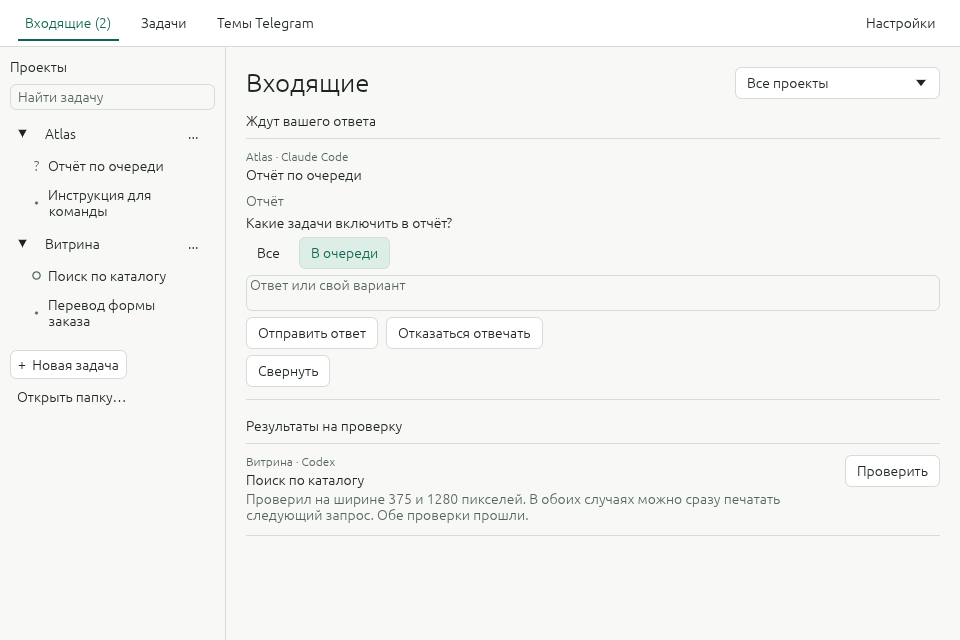
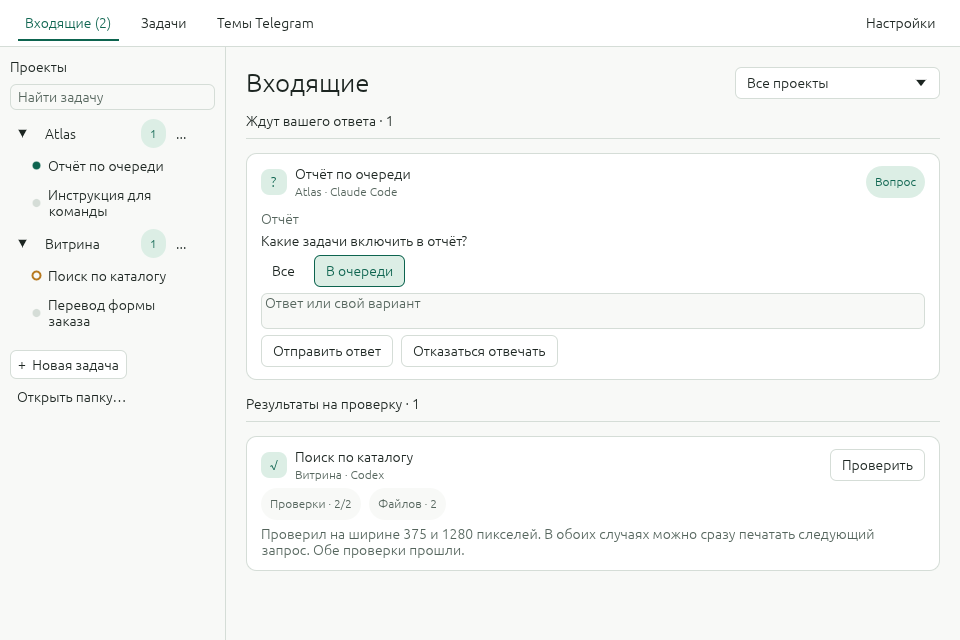
release: подготовить Agent Hub v1.1.1
Обновлённый интерфейс (чат пузырями, входящие карточками, действия
в шапке, сайдбар со статусами, результат вкладками, темы и новая
задача), тихое удаление и синхронизация тем. Версия workspace 1.1.1,
текст релиза с предупреждением об откате, новые скриншоты README/сайта.

diff --git a/site/index.html b/site/index.html
@@ -358,7 +358,7 @@
   <header class="wrap masthead">
     <div class="identity">
       <a class="brand" href="#main"><span class="brand-mark" aria-hidden="true"></span>agent-hub</a>
-      <span class="version">v1.1.0</span>
+      <span class="version">v1.1.1</span>
     </div>
     <nav aria-label="Основная навигация">
       <ul>

diff --git a/docs/releases/v1.1.1.md b/docs/releases/v1.1.1.md
@@ -1,0 +1,60 @@
+# v1.1.1 — обновлённый интерфейс и синхронизация тем
+
+Патч-выпуск делает десктопный хаб удобнее в ежедневной работе: переписка задачи читается как чат, действия доступны без лишних раскрытий, состояния задач видны с первого взгляда. Разделы «Темы Telegram» и «Новая задача» обновлены в том же стиле. Логика задач, правила, проверки и Telegram-мост не изменились.
+
+![Входящие карточками: вопрос агента с вариантами ответа и результат другой задачи на проверку.](https://raw.githubusercontent.com/aprazdnikov/agent-hub-rs/v1.1.1/site/screenshots/inbox.png)
+
+## Что изменилось в интерфейсе
+
+- **Чат задачи.** Сообщения оформлены пузырями: ваши справа, агента слева, с именем исполнителя, статусом запуска и временем. Длинные ответы сворачиваются с кнопкой «Развернуть»; файлы и проверки показаны чипами. Поле сообщения растёт по мере набора (до 8 строк), отправка — Ctrl+Enter.
+- **Входящие.** Вопросы и запросы разрешений оформлены карточками: варианты ответа и кнопки «Разрешить»/«Отклонить» доступны сразу, без раскрытия. Результаты на проверку — с чипами файлов и проверок.
+- **Действия задачи.** Главное действие по состоянию — кнопкой в шапке чата («Остановить», «Открыть результат», «Снять с очереди», «Разобрать запуск»); редкие действия — в меню «…». Страница «Параметры» осталась для настроек.
+- **Сайдбар.** Состояния задач отмечены цветными точками (выполняется, на проверке, ждёт ответа, ошибка), у проекта — счётчик требующих внимания.
+- **Экран результата.** Вместо вложенных раскрытий — вкладки «Сводка», «Изменения», «Проверки», «Файлы», «История»; замечания к строкам diff сохраняются.
+- **Темы Telegram.** Карточки с чипом состояния и этапа, меню «…» (память, параметры, папка, ссылка, session_id, сброс и удаление с подтверждением). Кнопка **«Синхронизировать»** убирает из списка темы, которых уже нет в Telegram.
+- **Новая задача.** Компактная строка выбора проекта, режима и агента; растущее поле поручения; название — видимое опциональное поле.
+
+![Чат задачи пузырями: ответы агента со статусом и временем, поле сообщения внизу.](https://raw.githubusercontent.com/aprazdnikov/agent-hub-rs/v1.1.1/site/screenshots/task-chat.png)
+
+## Удаление и синхронизация тем
+
+- Удаление темы, которой уже нет в Telegram, больше не показывает ошибку API: тема просто убирается из списка.
+- **«Синхронизировать»** последовательно проверяет темы и убирает устаревшие. Живые темы не затрагиваются; при неопределённом ответе API тема остаётся в списке. Если Telegram просит подождать, синхронизация останавливается и сообщает об этом. Ошибки сохранения на диске показываются явно — повторите синхронизацию.
+
+## Обновление с v1.1.0
+
+Завершите работу агентов и закройте хаб через меню трея. **Перед обновлением сделайте копию файла задач `topics.tasks.json` вместе с каталогом `task-files/`** (пути зависят от системы; см. таблицу ниже).
+
+v1.1.1 добавляет в историю запусков время начала и завершения. Файл задач читается со строгой схемой, поэтому **файл, записанный v1.1.1, прежние версии прочитать не смогут: возврат на версию до v1.1.1 не поддерживается**. Для возврата восстановите копию, сделанную до обновления, при закрытом приложении.
+
+| Система | Настройки | Данные |
+|---|---|---|
+| Windows | `%APPDATA%\agent-hub\config` | `%APPDATA%\agent-hub\data` |
+| macOS | `~/Library/Application Support/agent-hub/` | тот же каталог |
+| Linux | `~/.config/agent-hub/` | `~/.local/share/agent-hub/` |
+
+На Linux при заданных `XDG_CONFIG_HOME` и `XDG_DATA_HOME` используйте каталог `agent-hub/` внутри соответствующего пути. [Настройки, пути и обновление](https://github.com/aprazdnikov/agent-hub-rs/blob/v1.1.1/docs/guide/settings.md)
+
+## Скачать и проверить
+
+Скачайте файл для своей системы и его контрольную сумму в один каталог.
+
+| Система | Файл | SHA-256 |
+|---|---|---|
+| Windows x64 | [Установщик .exe](https://github.com/aprazdnikov/agent-hub-rs/releases/download/v1.1.1/agent-hub-x86_64-pc-windows-msvc-setup.exe) · [переносимый .zip](https://github.com/aprazdnikov/agent-hub-rs/releases/download/v1.1.1/agent-hub-x86_64-pc-windows-msvc.zip) | [Установщик](https://github.com/aprazdnikov/agent-hub-rs/releases/download/v1.1.1/agent-hub-x86_64-pc-windows-msvc-setup.exe.sha256) · [архив](https://github.com/aprazdnikov/agent-hub-rs/releases/download/v1.1.1/agent-hub-x86_64-pc-windows-msvc.zip.sha256) |
+| macOS, Apple Silicon | [Приложение .app.zip](https://github.com/aprazdnikov/agent-hub-rs/releases/download/v1.1.1/agent-hub-aarch64-apple-darwin.app.zip) | [Сумма](https://github.com/aprazdnikov/agent-hub-rs/releases/download/v1.1.1/agent-hub-aarch64-apple-darwin.app.zip.sha256) |
+| macOS, Intel | [Приложение .app.zip](https://github.com/aprazdnikov/agent-hub-rs/releases/download/v1.1.1/agent-hub-x86_64-apple-darwin.app.zip) | [Сумма](https://github.com/aprazdnikov/agent-hub-rs/releases/download/v1.1.1/agent-hub-x86_64-apple-darwin.app.zip.sha256) |
+| Debian / Ubuntu x64 | [Пакет .deb](https://github.com/aprazdnikov/agent-hub-rs/releases/download/v1.1.1/agent-hub-x86_64-unknown-linux-gnu.deb) | [Сумма](https://github.com/aprazdnikov/agent-hub-rs/releases/download/v1.1.1/agent-hub-x86_64-unknown-linux-gnu.deb.sha256) |
+| Linux x64 с glibc 2.35+ | [Архив .tar.gz](https://github.com/aprazdnikov/agent-hub-rs/releases/download/v1.1.1/agent-hub-x86_64-unknown-linux-gnu.tar.gz) | [Сумма](https://github.com/aprazdnikov/agent-hub-rs/releases/download/v1.1.1/agent-hub-x86_64-unknown-linux-gnu.tar.gz.sha256) |
+
+В каталоге загрузки проверьте сумму перед установкой. Подставьте имя выбранного файла.
+
+- **Linux** — `sha256sum -c agent-hub-x86_64-unknown-linux-gnu.deb.sha256`. Ожидаемый результат — `OK`.
+- **macOS** — `shasum -a 256 -c agent-hub-aarch64-apple-darwin.app.zip.sha256`. После `OK` распакуйте архив и замените весь `agent-hub.app`.
+- **Windows PowerShell** — следующие команды вернут `True` при совпадении.
+
+  ```powershell
+  $file = 'agent-hub-x86_64-pc-windows-msvc-setup.exe'
+  $expected = ((Get-Content -Raw -LiteralPath "$file.sha256") -split '\s+')[0]
+  (Get-FileHash -Algorithm SHA256 -LiteralPath $file).Hash -eq $expected
+  ```

diff --git a/README.md b/README.md
@@ -2,30 +2,30 @@
 
 Agent Hub запускает Claude Code, Codex, Qwen Code, Hermes и OpenCode в ваших проектах. У каждой задачи свой чат. Вопросы, запросы разрешений и готовые результаты из разных проектов попадают в одни «Входящие». Начать можно на компьютере, а продолжить — с телефона в Telegram.
 
-**[Скачать для Windows, macOS и Linux](https://github.com/aprazdnikov/agent-hub-rs/releases/latest)** · [Что нового в 1.1.0](https://github.com/aprazdnikov/agent-hub-rs/releases/tag/v1.1.0) · [Полное руководство](https://github.com/aprazdnikov/agent-hub-rs/blob/v1.1.0/docs/README.md) · [Сайт](https://aprazdnikov.github.io/agent-hub-rs/)
+**[Скачать для Windows, macOS и Linux](https://github.com/aprazdnikov/agent-hub-rs/releases/latest)** · [Что нового в 1.1.1](https://github.com/aprazdnikov/agent-hub-rs/releases/tag/v1.1.1) · [Полное руководство](https://github.com/aprazdnikov/agent-hub-rs/blob/v1.1.1/docs/README.md) · [Сайт](https://aprazdnikov.github.io/agent-hub-rs/)
 
-![Во входящих агент задаёт вопрос по одному проекту, а результат другого проекта уже можно проверить](https://raw.githubusercontent.com/aprazdnikov/agent-hub-rs/v1.1.0/site/screenshots/inbox.png)
+![Во входящих агент задаёт вопрос по одному проекту, а результат другого проекта уже можно проверить](https://raw.githubusercontent.com/aprazdnikov/agent-hub-rs/v1.1.1/site/screenshots/inbox.png)
 
 ## Первая задача на компьютере
 
-1. Установите приложение и войдите в CLI хотя бы одного агента. Подойдут Windows x64, macOS на Apple Silicon или Intel и Linux x64. [Инструкция по установке и требования](https://github.com/aprazdnikov/agent-hub-rs/blob/v1.1.0/docs/guide/getting-started.md)
+1. Установите приложение и войдите в CLI хотя бы одного агента. Подойдут Windows x64, macOS на Apple Silicon или Intel и Linux x64. [Инструкция по установке и требования](https://github.com/aprazdnikov/agent-hub-rs/blob/v1.1.1/docs/guide/getting-started.md)
 2. В хабе нажмите «Открыть папку…», выберите проект и нажмите «Новая задача». Выберите «Локально» и агента. Для первого запуска подойдёт поручение «Прочитай README и объясни, как запустить проект». Нажмите «Начать задачу».
-3. Ответьте агенту во «Входящих». Когда появится результат, нажмите «Проверить», посмотрите ответ, файлы и изменения. Дальше можно принять результат или отправить замечание в чат. [Подробнее о задачах](https://github.com/aprazdnikov/agent-hub-rs/blob/v1.1.0/docs/guide/tasks.md)
+3. Ответьте агенту во «Входящих». Когда появится результат, нажмите «Проверить», посмотрите ответ, файлы и изменения. Дальше можно принять результат или отправить замечание в чат. [Подробнее о задачах](https://github.com/aprazdnikov/agent-hub-rs/blob/v1.1.1/docs/guide/tasks.md)
 
-Telegram подключается по желанию. Создайте бота, добавьте его в группу с темами и укажите разрешённых пользователей в «Настройки → Telegram и доступ». Чтобы получать вопросы и результаты уже начатой задачи, отправьте `/task follow ID` в теме того же проекта. [Настройка Telegram](https://github.com/aprazdnikov/agent-hub-rs/blob/v1.1.0/docs/guide/getting-started.md#telegram)
+Telegram подключается по желанию. Создайте бота, добавьте его в группу с темами и укажите разрешённых пользователей в «Настройки → Telegram и доступ». Чтобы получать вопросы и результаты уже начатой задачи, отправьте `/task follow ID` в теме того же проекта. [Настройка Telegram](https://github.com/aprazdnikov/agent-hub-rs/blob/v1.1.1/docs/guide/getting-started.md#telegram)
 
 ## Что ещё умеет хаб
 
 | Что вы хотите сделать | Где посмотреть |
 |---|---|
-| После изменений запустить тесты и передать результат агенту-ревьюеру | [Правила проекта и автоматические проверки](https://github.com/aprazdnikov/agent-hub-rs/blob/v1.1.0/docs/guide/tasks.md#automation) |
-| Поставить задачи в очередь или параллельно работать в отдельных Git worktree | [Очередь и рабочие копии](https://github.com/aprazdnikov/agent-hub-rs/blob/v1.1.0/docs/guide/tasks.md#queue) |
-| Передать решения и контекст между агентами, включить память для задачи или темы | [Память проекта](https://github.com/aprazdnikov/agent-hub-rs/blob/v1.1.0/docs/guide/memory.md) |
-| Отправлять файлы и голосовые, восстановить сессию или посмотреть журнал | [Каталог руководств](https://github.com/aprazdnikov/agent-hub-rs/blob/v1.1.0/docs/README.md) |
+| После изменений запустить тесты и передать результат агенту-ревьюеру | [Правила проекта и автоматические проверки](https://github.com/aprazdnikov/agent-hub-rs/blob/v1.1.1/docs/guide/tasks.md#automation) |
+| Поставить задачи в очередь или параллельно работать в отдельных Git worktree | [Очередь и рабочие копии](https://github.com/aprazdnikov/agent-hub-rs/blob/v1.1.1/docs/guide/tasks.md#queue) |
+| Передать решения и контекст между агентами, включить память для задачи или темы | [Память проекта](https://github.com/aprazdnikov/agent-hub-rs/blob/v1.1.1/docs/guide/memory.md) |
+| Отправлять файлы и голосовые, восстановить сессию или посмотреть журнал | [Каталог руководств](https://github.com/aprazdnikov/agent-hub-rs/blob/v1.1.1/docs/README.md) |
 
-Агенты работают с правами вашей учётной записи. Доступные файлы и действия зависят от настроек CLI и проекта. [Права доступа и хранение данных](https://github.com/aprazdnikov/agent-hub-rs/blob/v1.1.0/docs/guide/security.md)
+Агенты работают с правами вашей учётной записи. Доступные файлы и действия зависят от настроек CLI и проекта. [Права доступа и хранение данных](https://github.com/aprazdnikov/agent-hub-rs/blob/v1.1.1/docs/guide/security.md)
 
-[Сборка из исходников и разработка](https://github.com/aprazdnikov/agent-hub-rs/blob/v1.1.0/docs/development.md) · [Лицензия MIT](https://github.com/aprazdnikov/agent-hub-rs/blob/v1.1.0/LICENSE)
+[Сборка из исходников и разработка](https://github.com/aprazdnikov/agent-hub-rs/blob/v1.1.1/docs/development.md) · [Лицензия MIT](https://github.com/aprazdnikov/agent-hub-rs/blob/v1.1.1/LICENSE)
 
 [![Architecture diagram](https://gitdiagram.com/diagram-badge.svg)](https://gitdiagram.com/aprazdnikov/agent-hub-rs?utm_source=readme&utm_medium=badge)
 [![XERJ Corpus Hub contributor](https://hub.xerj.org/contributors/aprazdnikov/badge.svg)](https://hub.xerj.org/contributors/aprazdnikov)

diff --git a/docs/releases/README.md b/docs/releases/README.md
@@ -8,6 +8,7 @@
 
 | Версия | Текст | Подготовка | Результат публикации |
 |---|---|---|---|
+| v1.1.1 | [Обновлённый интерфейс и синхронизация тем](v1.1.1.md) | Подготовка: версия workspace 1.1.1, текст и скриншоты готовы; публикация ожидается | — |
 | v1.1.0 | [Задачи на компьютере и в Telegram](v1.1.0.md) | Проверки workspace и сборки для четырёх платформ | [Сборки и контрольные суммы](https://github.com/aprazdnikov/agent-hub-rs/releases/tag/v1.1.0) |
 | v1.0.0 | [Общая память проекта](v1.0.0.md) | Релизный коммит `e577805`, [CI — 6/6 PASS](https://github.com/aprazdnikov/agent-hub-rs/actions/runs/44894626289) | [Опубликован](https://github.com/aprazdnikov/agent-hub-rs/releases/tag/v1.0.0), 24 файла и SHA-256 проверены; [Release — PASS](https://github.com/aprazdnikov/agent-hub-rs/actions/runs/44895372407) |
 | v0.11.0 | [Одобрения Hermes](v0.11.0.md) | 2026-11-10: пользователь согласовал минорный выпуск; коммит `5627d16`, аннотированный тег `v0.11.0` | [Опубликован](https://github.com/aprazdnikov/agent-hub-rs/releases/tag/v0.11.0): 24 файла; [Release — PASS](https://github.com/aprazdnikov/agent-hub-rs/actions/runs/42825506765) |
